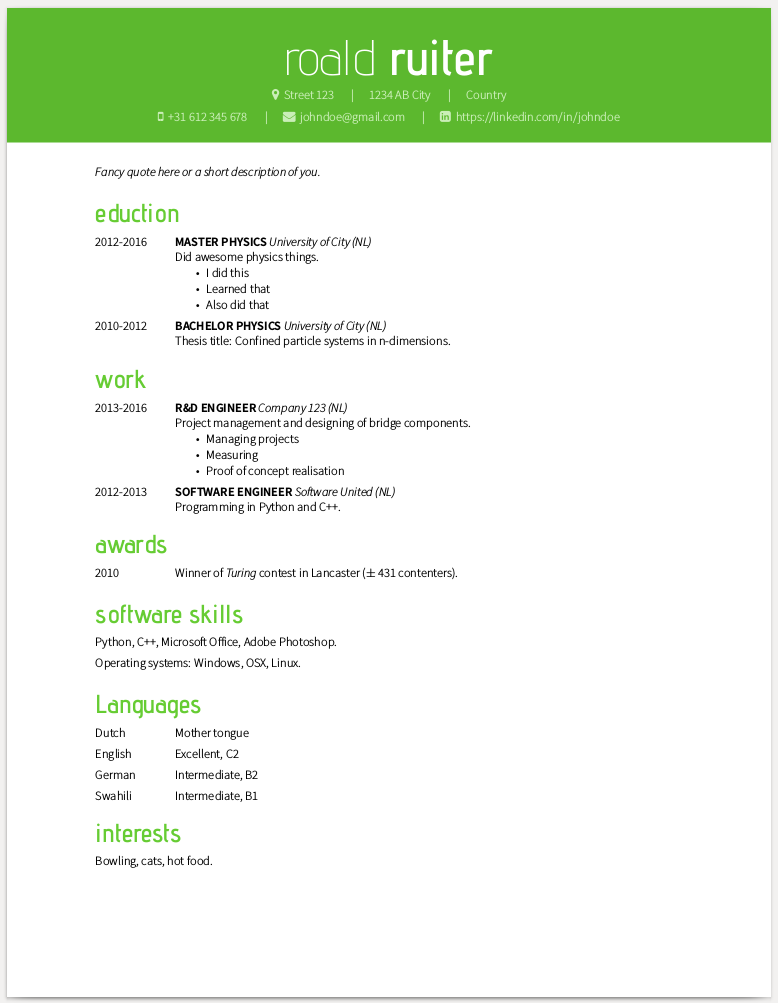
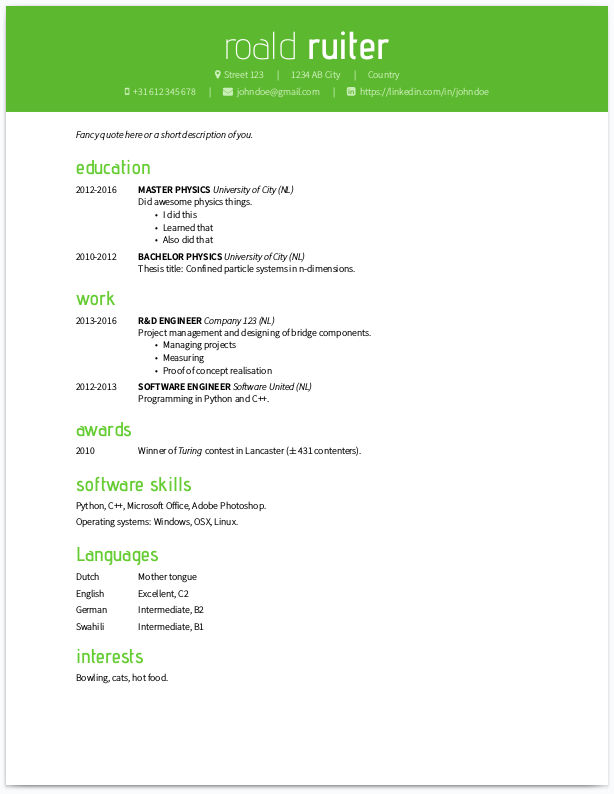
Fix issue #1
Fixed education title typo

diff --git a/cv-roald-example.tex b/cv-roald-example.tex
@@ -16,7 +16,7 @@
 
 \textit{Fancy quote here or a short description of you.}
 
-\section*{eduction}
+\section*{education}
 % Use tabularcv environment to make a two column environment, left one for dates, right one for details of your education for example. 
 % You can use the command \worktitle{Study name/Job title}{Location}.
 % You can use the environment tabitemize to make a bulletpoint list inside the tabularcv environment.
